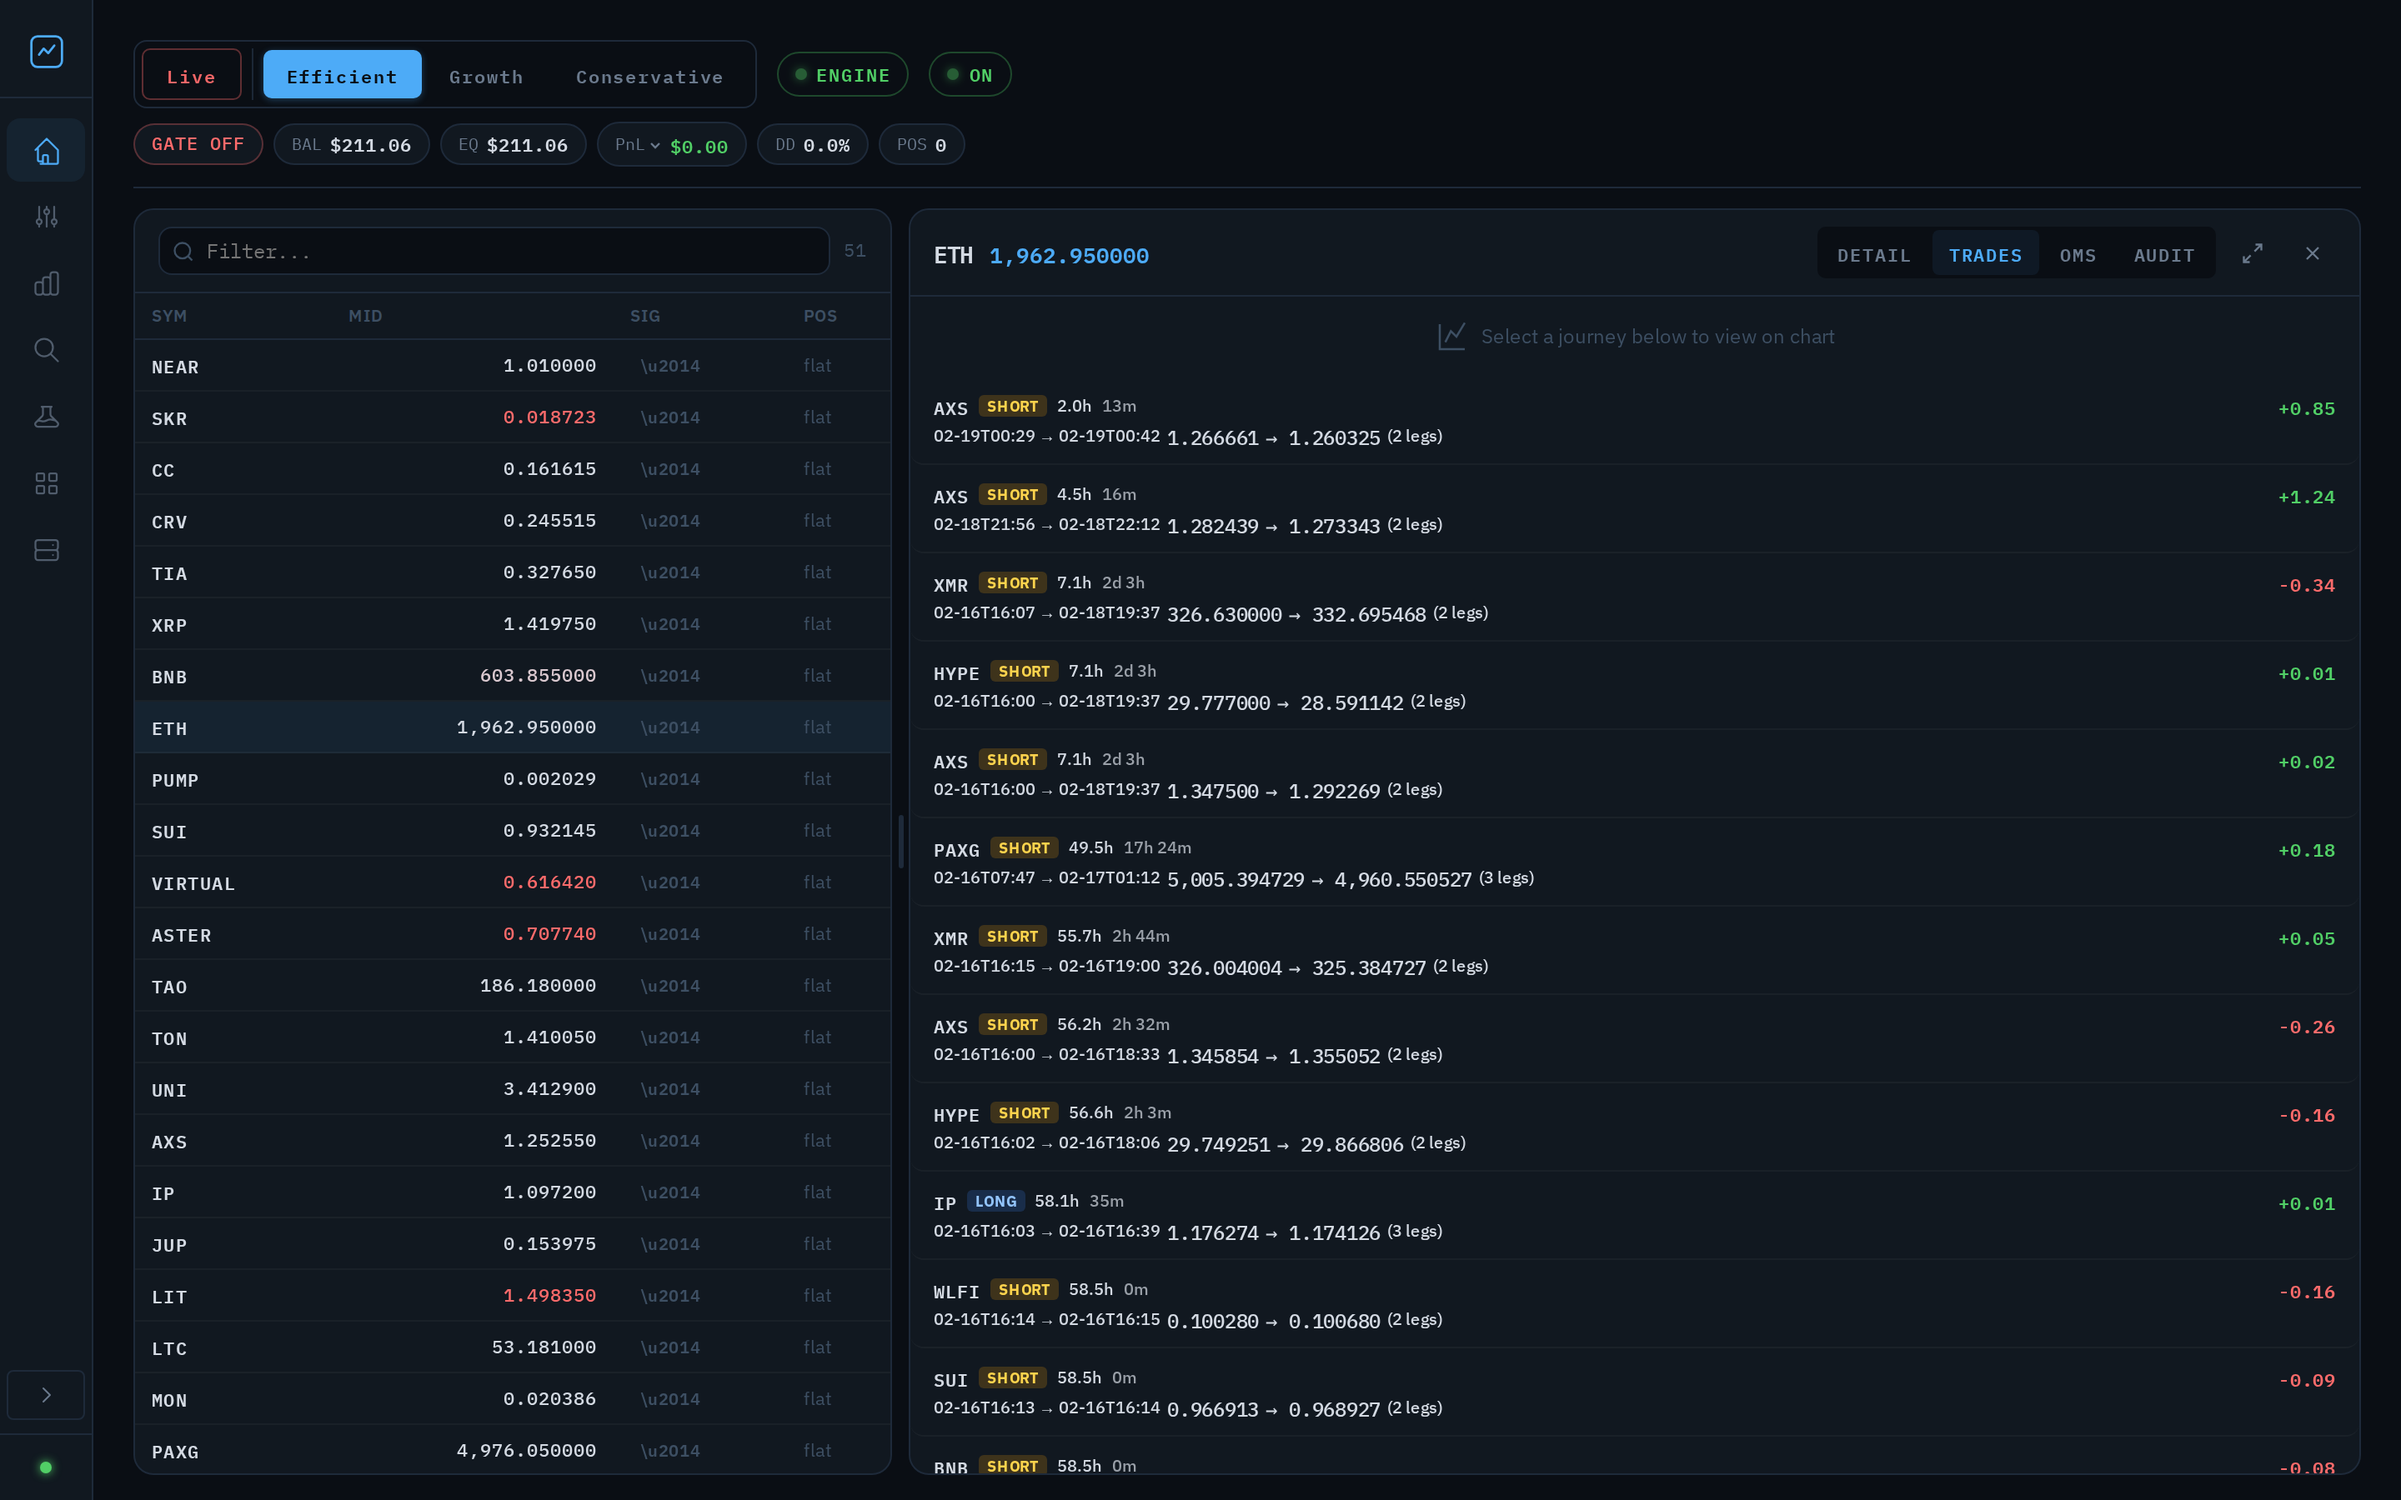
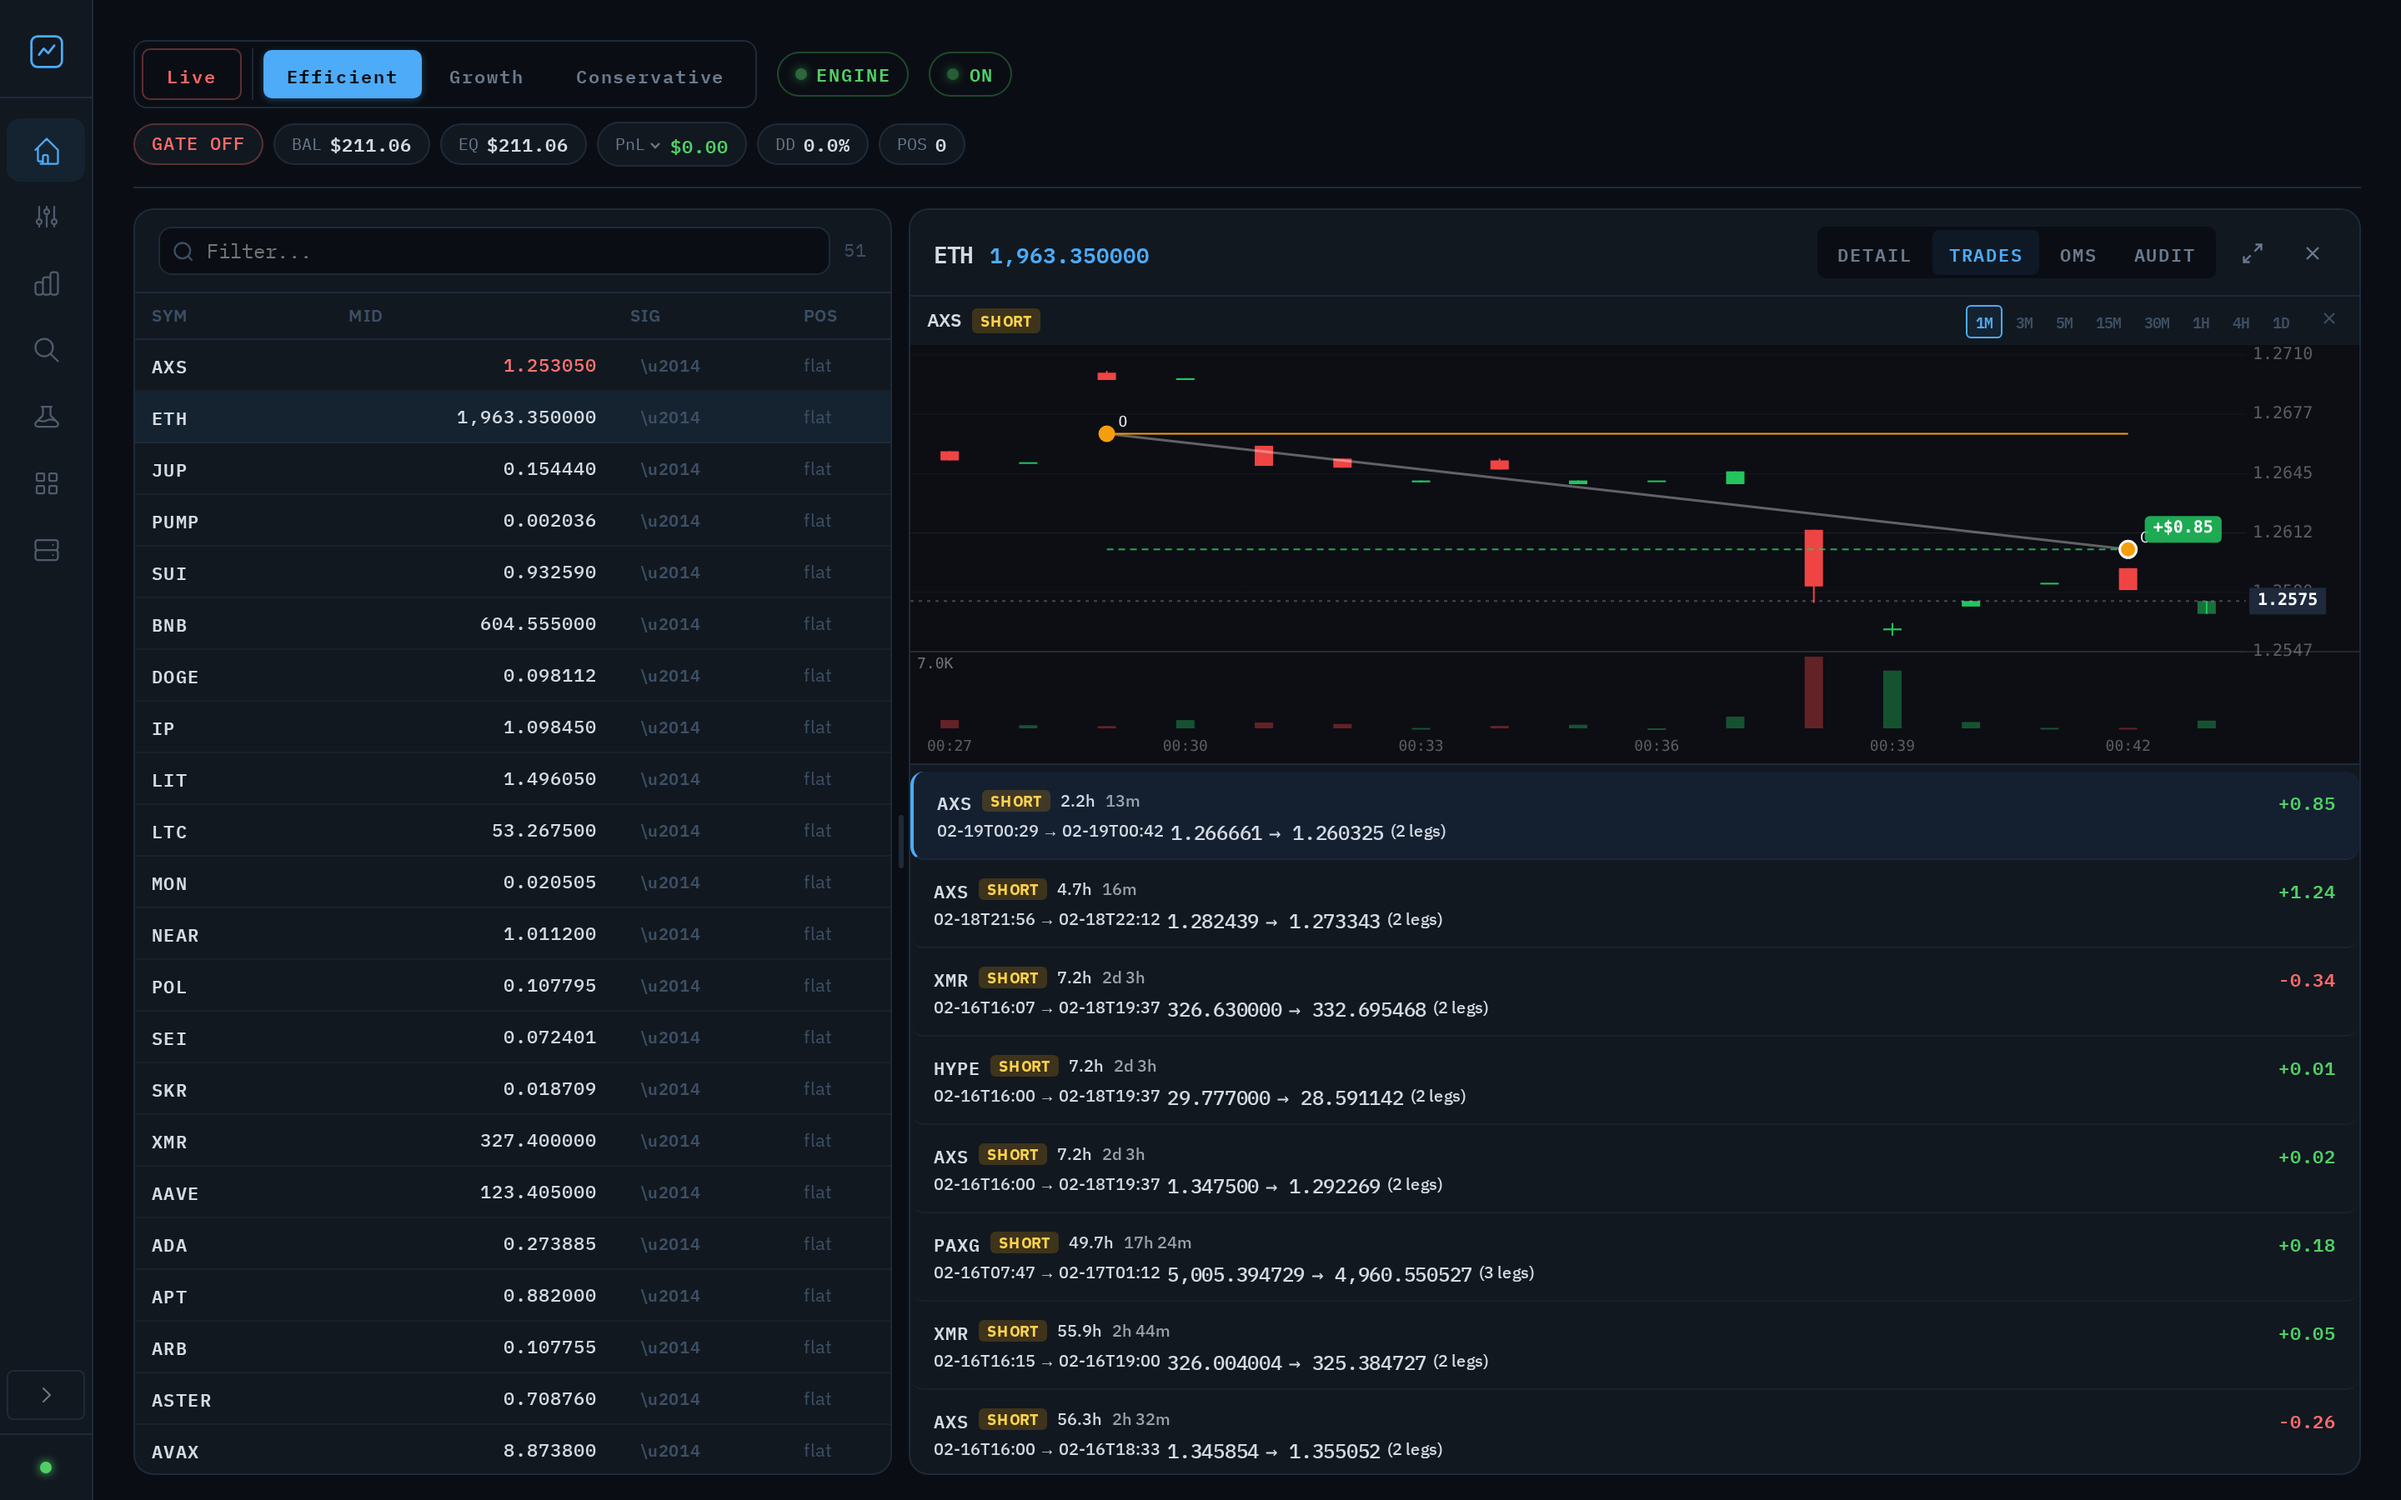
docs: improve screenshots — trade overlay, add mobile views
- Dashboard: click a trade to show entry/exit overlay on candle chart
- Remove config editor screenshot (less visually interesting)
- Add 3 iPhone mobile screenshots side-by-side: dashboard, trades, grid
- Use HTML layout for mobile screenshots to display them inline

diff --git a/README.md b/README.md
@@ -4,25 +4,26 @@ AI-powered crypto perpetual futures trading engine for [Hyperliquid DEX](https:/
 
 ## Screenshots
 
-### Trading Dashboard
-Real-time candlestick charts with live mid-prices, position tracking, and multi-mode support (paper / live).
+### Trade Dashboard
+Candlestick charts with trade overlays, live mid-prices, and full trade journal with PnL.
 
-![Trading Dashboard](docs/screenshots/dashboard.png)
-
-### Trade History
-Full trade journal with entry/exit details, durations, PnL, and leg breakdowns.
-
-![Trade History](docs/screenshots/dashboard-trades.png)
-
-### Strategy Config Editor
-Hot-reloadable YAML configuration with syntax highlighting, version history, and inline diff viewer.
-
-![Config Editor](docs/screenshots/config-editor.png)
+![Trade Dashboard](docs/screenshots/dashboard-trades.png)
 
 ### Service Management
 One-click start/stop/restart for all systemd services with live status indicators.
 
 ![System Management](docs/screenshots/system-management.png)
+
+### Mobile
+Fully responsive — monitor trades, prices, and services from your phone.
+
+<p align="center">
+  <img src="docs/screenshots/mobile-dashboard.png" alt="Mobile Dashboard" width="270" />
+  &nbsp;&nbsp;
+  <img src="docs/screenshots/mobile-trades.png" alt="Mobile Trades" width="270" />
+  &nbsp;&nbsp;
+  <img src="docs/screenshots/mobile-grid.png" alt="Mobile Grid" width="270" />
+</p>
 
 ## Architecture
 
